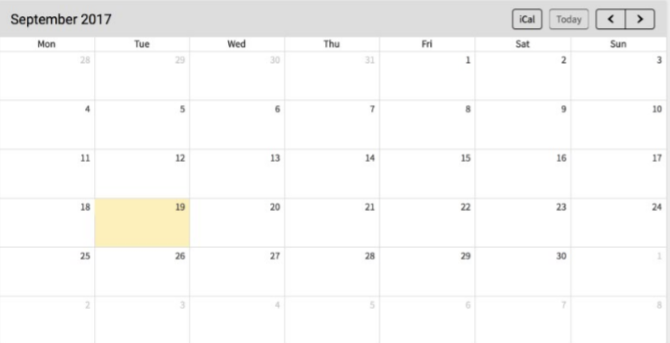
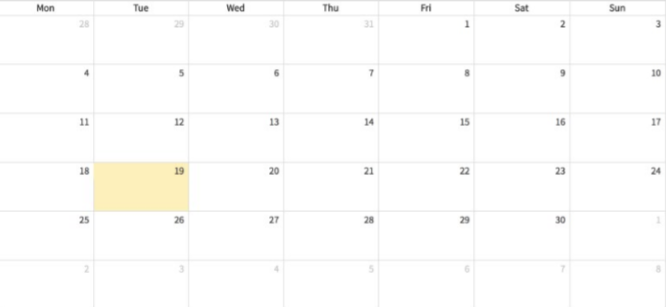
Formated widgets to be the same height
Used flex container to set all columns/widgets to the same height. Changed widgets to resize based on broswer.

diff --git a/src/index.html b/src/index.html
@@ -59,16 +59,16 @@
 	</div>
 	<div class="main">
 	
-		<div class="row">
-		  <div class="col-sm-4">
+		<div class="row display-flex">
+		  <div class="col-xs-10 col-sm-10 col-md-4">
 			<div class="panel panel-default">
 
 					<img style="width:100%; height:100%" src="images/profile.png"/>
 
 			</div>
 		  </div>
-		  <div class="col-sm-4">
-			<div class="panel panel-default" style="width:100%; height:100%">
+		  <div class="col-xs-10 col-sm-10 col-md-4">
+			<div class="panel panel-default">
 					<div class="panel-heading ">MBA (Global)</div>
 					<div class="panel-body">
 						<button type="button" class="btn btn-MBA" >Program</button>
@@ -77,23 +77,20 @@
 					</div>
 			</div>
 		  </div>
-		  <div class="col-sm-4">
+		  <div class="col-xs-10 col-sm-10 col-md-4">
 			<div class="panel panel-default">
 					<img style="width:100%; height:100%" src="images/notification.png"/>
 			</div>
 		  </div>
-		</div>
-	
-		<div class="row">
-		  <div class="col-sm-3">
+		  <div class="col-xs-10 col-sm-10 col-md-3">
 			<div class="panel panel-default">
 				<div class="panel-heading">My Cohort</div>
-				<div class="panel-body pre-scrollable"><img src="images/cohort.png"/></div>
+				<div class="panel-body pre-scrollable"><img src="images/cohort.png" style="width:100%; height:100%"/></div>
 			</div>
 		  </div>
 		  
-		  <div class="col-sm-3">
-			<div class="panel panel-default" style="min-width : 350px; min-height : 400px;">
+		  <div class="col-xs-10 col-sm-10 col-md-3">
+			<div class="panel panel-default">
 					<div class="panel-heading">My Tasks</div>
 					<div class="panel-body panel-widget" style="height:75%" >
 						<input type="text" class="form-control" placeholder="Add task here...">
@@ -121,76 +118,13 @@
 					</div>
 			</div>
 		  </div>
-		  <div class="col-sm-6">
+		  <div class="col-xs-10 col-sm-10 col-md-6">
 			<div class="panel panel-default">
-				<div class="panel-heading" style="width: 100%">September 2017</div>
-				<div class="panel-body panel-widget" style="height:100%"><img src="images/cal.png"/></div>
+				<div class="panel-heading">September 2017</div>
+				<img src="images/cal.png" style="width:100%"/>
 			</div>
 		  </div>
 		</div>
-	
-	
-		<!--<div class="flexContainer">
-			<div class="panel panel-default">
-					<div class="panel-body panel-widget" style="min-width : 465px; min-height : 300px;">
-						<img style="width:100%; height:100%" src="images/profile.png"/>
-					</div>
-			</div>
-			
-			<div class="panel panel-default">
-					<div class="panel-heading ">MBA (Global)</div>
-					<div class="panel-body" style="min-width : 465px; min-height : 300px;" >
-						<button type="button" class="btn btn-MBA" >Program</button>
-						<button type="button" class="btn btn-MBA">Resources</button>
-						<button type="button" class="btn btn-MBA">Library</button>
-					</div>
-			</div>
-			
-			
-			<div class="panel panel-default">
-					<div class="panel-body panel-widget" style="min-width : 465px; min-height : 300px;">
-						<img style="width:100%; height:100%" src="images/notification.png"/>
-					</div>
-			</div>
-		</div>
-	<br/>
-		<div class="flexContainer">
-			<div class="panel panel-default" style="min-width : 350px; min-height : 400px;">
-					<div class="panel-heading">My Cohort</div>
-					<div class="panel-body pre-scrollable"><img src="images/cohort.png"/></div>
-			</div>
-			<div class="panel panel-default" style="min-width : 350px; min-height : 400px;">
-					<div class="panel-heading">My Tasks</div>
-					<div class="panel-body panel-widget" style="height:75%" >
-						<input type="text" class="form-control" placeholder="Add task here...">
-						<div class="checkbox" style=" padding: 0px 0 0 10px;">
-							<label><input type="checkbox" value="">Option 1</label>
-						</div>
-						<div class="checkbox" style=" padding: 0px 0 0 10px;">
-							<label><input type="checkbox" value="">Option 2</label>
-						</div>
-						<div class="checkbox" style=" padding: 0px 0 0 10px;">
-							<label><input type="checkbox" value="">Option 3</label>
-						</div>
-						<div class="checkbox" style=" padding: 0px 0 0 10px;">
-							<label><input type="checkbox" value="">Option 4</label>
-						</div>
-					</div>
-					<div class="panel-footer">
-						<div class="dropdown">
-							<button class="btn btn-secondary dropdown-toggle btn-sm" type="button" data-toggle="dropdown">Incomplete only
-							<span class="caret"></span></button>
-							<ul class="dropdown-menu">
-								<li><a href="#">Incomplete only</a></li>
-							</ul>
-						</div>						
-					</div>
-			</div>
-			<div class="panel panel-default">
-					<div class="panel-heading">September 2017</div>
-					<div class="panel-body panel-widget" style="height:100%"><img src="images/cal.png"/></div>
-			</div>
-		</div>-->
 	</div>
 </body>
 </html>

diff --git a/src/styles/styles.less b/src/styles/styles.less
@@ -97,21 +97,9 @@ body {
     padding: 10px 0 10px 0;
 }
 
-.flexContainer {//used for wrapping widgets
-  display:flex;
-  flex-wrap: wrap;
-  max-height:1000px;
-
-  
-}
-.flexContainer > img {
-	flex:1;
-	margin:10px;
-}
-
 .panel{
 	margin:10px;
-
+	height: 90%;
 }
 
 .panel-widget{
@@ -140,6 +128,19 @@ background-color: white;
 
 .btn-MBA+.btn-MBA {
     margin-top: 25px;
+}
+
+.nopadding {
+   padding: 0 !important;
+   margin: 0 !important;
+}
+
+.row.display-flex {
+  display: flex;
+  flex-wrap: wrap;
+}
+.row.display-flex > [class*='col-'] {
+  flex-grow: 1;
 }
 
 a { color: inherit; } 
